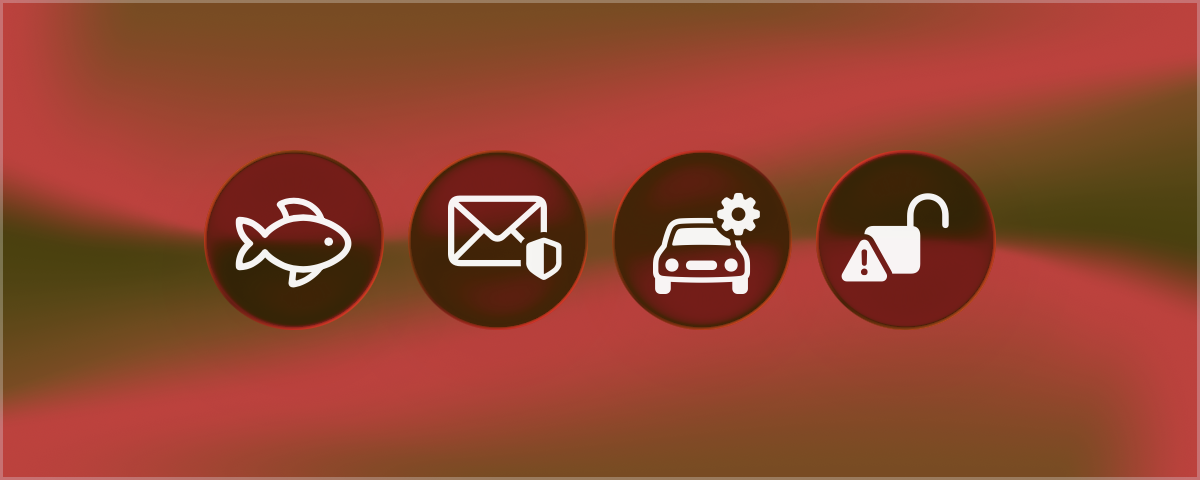
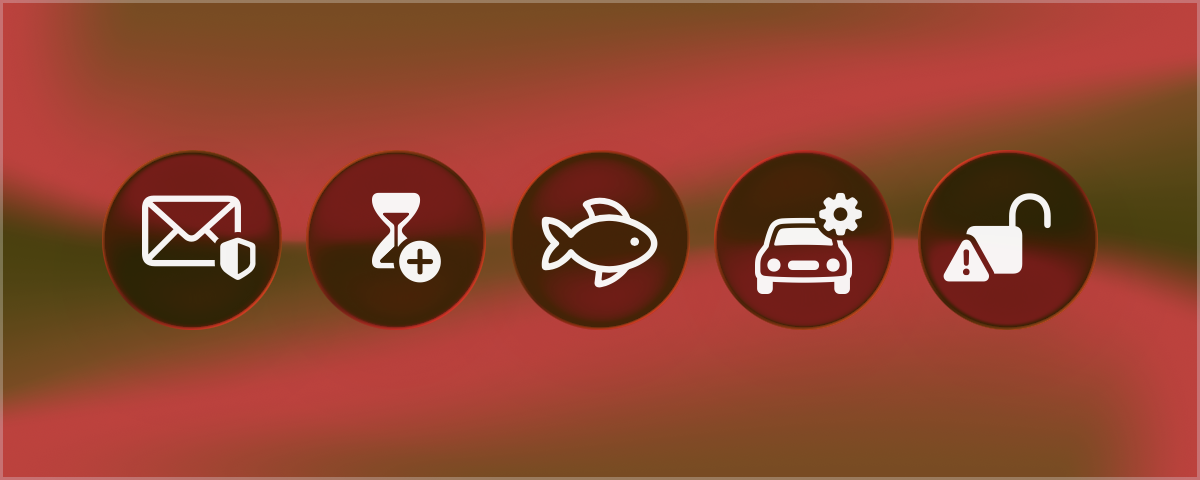
add illustrations for symbol alignment section

Changed region(s): [[0.0617, 0.3125, 0.925, 0.6875]]

diff --git a/illustrations-app/illustrations/IntricaciesOfCircularButtons.swift b/illustrations-app/illustrations/IntricaciesOfCircularButtons.swift
@@ -154,10 +154,11 @@ struct IntricaciesOfCircularButtons {
         try storage.renderAndStore("glass-framed-button-style", strategy: .windowHierarchy) {
             DocumentationIllustration(sizing: .regular, background: .fadedMoltenHorizon) {
                 HStack {
-                    Button("Fish", systemImage: "fish", action: {})
-                    Button("Envelope", systemImage: "envelope.badge.shield.half.filled", action: {})
-                    Button("Car", systemImage: "car.badge.gearshape", action: {})
-                    Button("Lock", systemImage: "lock.open.trianglebadge.exclamationmark.fill", action: {})
+                    Button("Envelope",  systemImage: "envelope.badge.shield.half.filled", action: {})
+                    Button("Hourglass", systemImage: "hourglass.badge.plus", action: {})
+                    Button("Fish",      systemImage: "fish", action: {})
+                    Button("Car",       systemImage: "car.badge.gearshape", action: {})
+                    Button("Lock",      systemImage: "lock.open.trianglebadge.exclamationmark.fill", action: {})
                 }
                 .buttonStyle(GlassFramedButtonStyle(length: 60))
                 .font(.title)
@@ -170,16 +171,16 @@ struct IntricaciesOfCircularButtons {
         try storage.renderAndStore("glass-framed-button-style-aligned", strategy: .windowHierarchy) {
             DocumentationIllustration(sizing: .regular, background: .fadedMoltenHorizon) {
                 HStack(alignment: .firstTextBaseline) {
-                    Button("Envelope", systemImage: "envelope.badge.shield.half.filled", action: {})
-                    Button("Car", systemImage: "car.badge.gearshape", action: {})
-                    Button("Lock", systemImage: "lock.open.trianglebadge.exclamationmark.fill", action: {})
+                    Button("Envelope",  systemImage: "envelope.badge.shield.half.filled", action: {})
+                    Button("Hourglass", systemImage: "hourglass.badge.plus", action: {})
 
-                    let alignmentGuideRect = Rectangle().fill(.pink.secondary).frame(width: 260, height: 2)
                     Button("Fish", systemImage: "fish", action: {})
-                    // Alignment guide visualization.
-                    .overlay(alignment: .topTrailing) { alignmentGuideRect }
-                    .overlay(alignment: .trailingFirstTextBaseline) { alignmentGuideRect }
-                    .overlay(alignment: .bottomTrailing) { alignmentGuideRect }
+                    .drawAlignmentGuide(.top, length: 360)
+                    .drawAlignmentGuide(.firstTextBaseline, length: 360)
+                    .drawAlignmentGuide(.bottom, length: 360)
+
+                    Button("Car",  systemImage: "car.badge.gearshape", action: {})
+                    Button("Lock", systemImage: "lock.open.trianglebadge.exclamationmark.fill", action: {})
                 }
                 .buttonStyle(GlassFramedButtonStyle(length: 60))
                 .font(.title)
@@ -187,4 +188,67 @@ struct IntricaciesOfCircularButtons {
         }
     }
 
+
+    @Test func symbolsInlineAlignment() throws {
+        try storage.renderAndStore("symbols-inline-alignment", strategy: .windowHierarchy) {
+            DocumentationIllustration(sizing: .regular) {
+                VStack {
+                    let envelope  = Image(systemName: "envelope.badge.shield.half.filled")
+                    let hourglass = Image(systemName: "hourglass.badge.plus")
+                    let shell     = Image(systemName: "fossil.shell")
+                    let car       = Image(systemName: "car.badge.gearshape")
+                    let lock      = Image(systemName: "lock.open.trianglebadge.exclamationmark.fill")
+                    Text("Regular \(envelope) \(hourglass) \(shell) \(car) \(lock) symbols")
+                    .drawAlignmentGuide(.firstTextBaseline)
+
+                    Text("Large \(envelope) \(hourglass) \(shell) \(car) \(lock) symbols")
+                    .imageScale(.large)
+                    .drawAlignmentGuide(.firstTextBaseline)
+
+                    HStack(alignment: .firstTextBaseline) {
+                        Button("Car", systemImage: "car.badge.gearshape", action: {})
+                        Button("Envelope", systemImage: "envelope.badge.shield.half.filled", action: {})
+                            .drawAlignmentGuide(.firstTextBaseline, length: 300)
+                        Button("Lock", systemImage: "lock.open.trianglebadge.exclamationmark.fill", action: {})
+                    }
+                }
+                .font(.title3)
+            } // Illustration
+        }
+    }
+
+
+    @Test func framedSymbolsWithBaselines() throws {
+        try storage.renderAndStore("framed-symbols-with-baselines", strategy: .windowHierarchy) {
+            DocumentationIllustration(sizing: .regular) {
+                HStack(alignment: .firstTextBaseline) {
+                    Image(systemName: "envelope.badge.shield.half.filled")
+                        .border(.green.secondary, width: 2)
+                    Image(systemName: "hourglass.badge.plus")
+                        .border(.green.secondary, width: 2)
+                    Image(systemName: "fossil.shell")
+                        .drawAlignmentGuide(.firstTextBaseline, length: 300)
+                        .border(.green.secondary, width: 2)
+                    Image(systemName: "car.badge.gearshape")
+                        .border(.green.secondary, width: 2)
+                    Image(systemName: "lock.open.trianglebadge.exclamationmark.fill")
+                        .border(.green.secondary, width: 2)
+                }
+                .font(.title)
+            } // Illustration
+        }
+    }
+
+}
+
+
+private extension View {
+    func drawAlignmentGuide(_ verticalAlignment: VerticalAlignment, length: CGFloat? = nil) -> some View {
+        let alignment = Alignment(horizontal: .center, vertical: verticalAlignment)
+        return self.overlay(alignment: alignment) {
+            Rectangle()
+            .fill(.red.secondary)
+            .frame(width: length, height: 2)
+        }
+    }
 }
